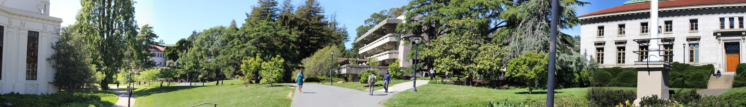
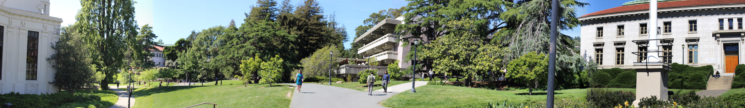
took off compromising pictures

diff --git a/main.py b/main.py
@@ -385,7 +385,15 @@ class Panorama:
             half_y = int((overlap_br[0] - overlap_tl[0])/2)
             half_x = int((overlap_br[1] - overlap_tl[1])/2)
             mask = np.ones(src.shape)
-            mask[:,:overlap_tl[1] + half_x] = 0.0
+            if shift < 0:
+                mask[:,overlap_tl[1] + half_x : overlap_br[1] - half_x] = 0.0
+            elif shift + src.shape[1] < dest.shape[1]:
+                quarter_y = int((overlap_br[0] - overlap_tl[0])/4)
+                quarter_x = int((overlap_br[1] - overlap_tl[1])/4)
+                mask[:,:overlap_tl[1] + quarter_x] = 0
+                mask[:,overlap_br[1] - quarter_x:overlap_br[1]] = 0
+            else:
+                mask[:,:overlap_tl[1] + half_x] = 0.0
             # mask[:,overlap_tl[1] + half_x:overlap_br[1]] = 0.85
         mask_pyramid = self.calcGuassianPyramid(mask, max_levels=levels)
         
@@ -481,7 +489,7 @@ class Panorama:
         start_panorama = panorama
         offsets = []
         print "Matching images together"
-        for img_name in img_names[1:-1]:
+        for img_name in img_names[1:]:
             print img_name
             image = readimage(img_name)
             mapped = self.warpImage(image, focal_length, mapping)[80:-80]

diff --git a/viewer.py b/viewer.py
@@ -47,4 +47,4 @@ class PanoramaViewer:
 
 if __name__ == "__main__":
 	print ""
-	PanoramaViewer("output/image3.png")
+	PanoramaViewer("output/woods-poisson.png")
